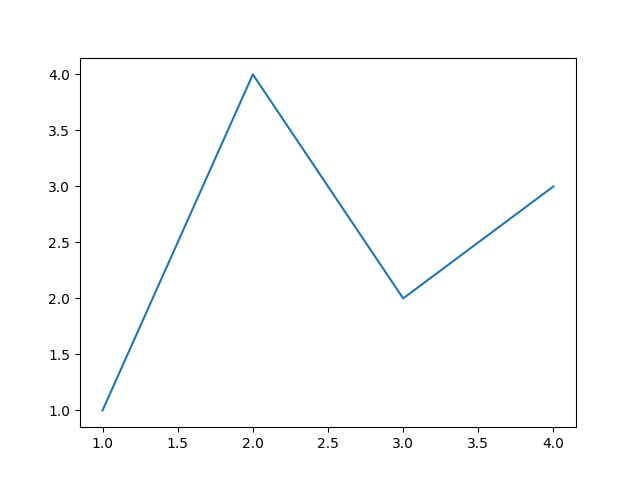
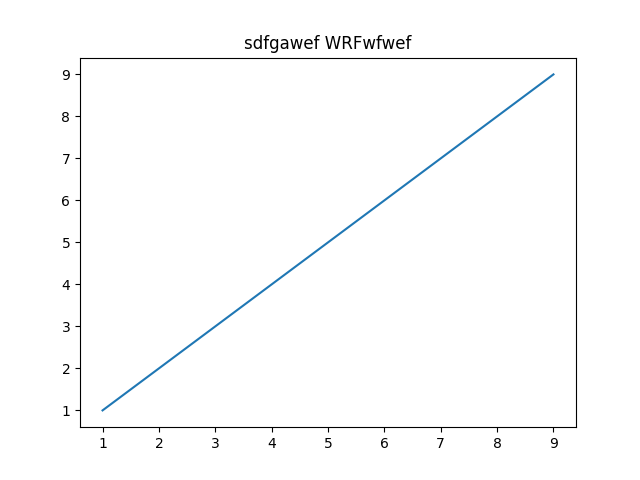
17.12

diff --git a/main.py b/main.py
@@ -4,8 +4,7 @@ from UI import Ui
 from PyQt6 import QtCore, QtGui, QtWidgets
 import matplotlib.pyplot as plt
 
-# fi = [1,2,3,4,5,6,7,8,9]
-# E = [1,2,3,4,5,6,7,8,9]
+global DATA
 
 def proverka():
       ui.UI.label_10.setText('Статус: Подключен')
@@ -16,15 +15,14 @@ def conect():
         # if client.Connected():
         #       ui.UI.label_10.setText('Статус: Подключен') 
         Command = '*IDN?'
-        client.Query(Command)
+        DATA = client.Query(Command)
     
 def DN():
-        # fig, ax = plt.subplots()             # Create a figure containing a single Axes.
-        # ax.plot(fi, E)  # Plot some data on the Axes.
-        # plt.savefig('DN.png')
-        # plt.show()
+        fi = [1,2,3,4,5,6,7,8,9]
+        E_f = [1,2,3,4,5,6,7,8,9]
         fig, ax = plt.subplots()             # Create a figure containing a single Axes.
-        ax.plot([1, 2, 3, 4], [1, 4, 2, 3])  # Plot some data on the Axes.                         # Show the figure.
+        ax.plot(fi, E_f)  # Plot some data on the Axes.   
+        ax.set_title(ui.User.FIO + ' ' + ui.User.group)                      # Show the figure.
         plt.savefig('DN.png')
         ui.UI.label_6.setPixmap(QtGui.QPixmap("DN.png"))
 
@@ -37,7 +35,7 @@ if __name__ == "__main__":
     MainWindow.show()
     ui.UI.savefio.clicked.connect(ui.GetDatafromLineEdit)
     ui.UI.mesuar.clicked.connect(ui.COMInd)
-    ui.UI.Connect.clicked.connect(conect)
+    ui.UI.Connect.clicked.connect(proverka)
     ui.UI.DN.clicked.connect(DN)
 
 
